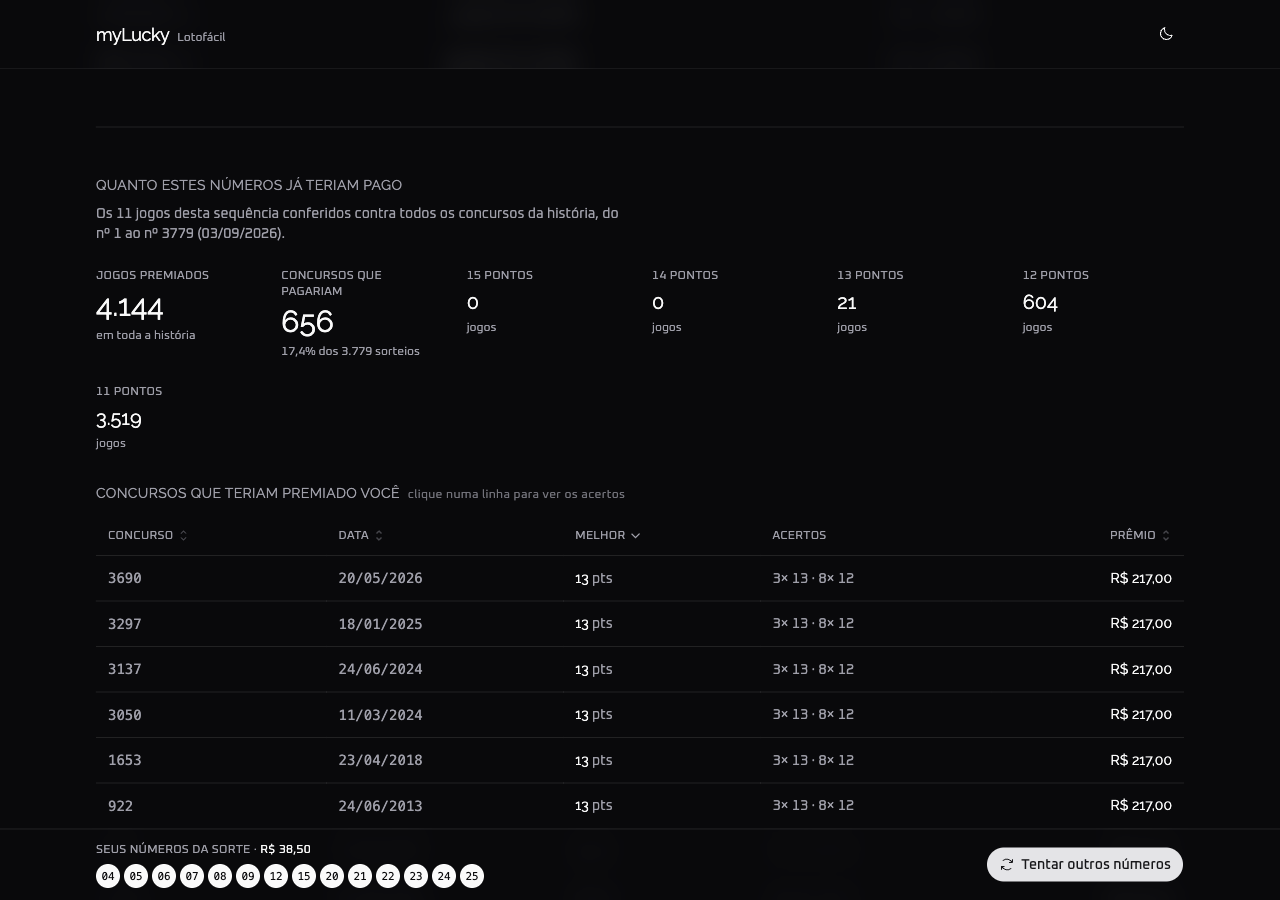
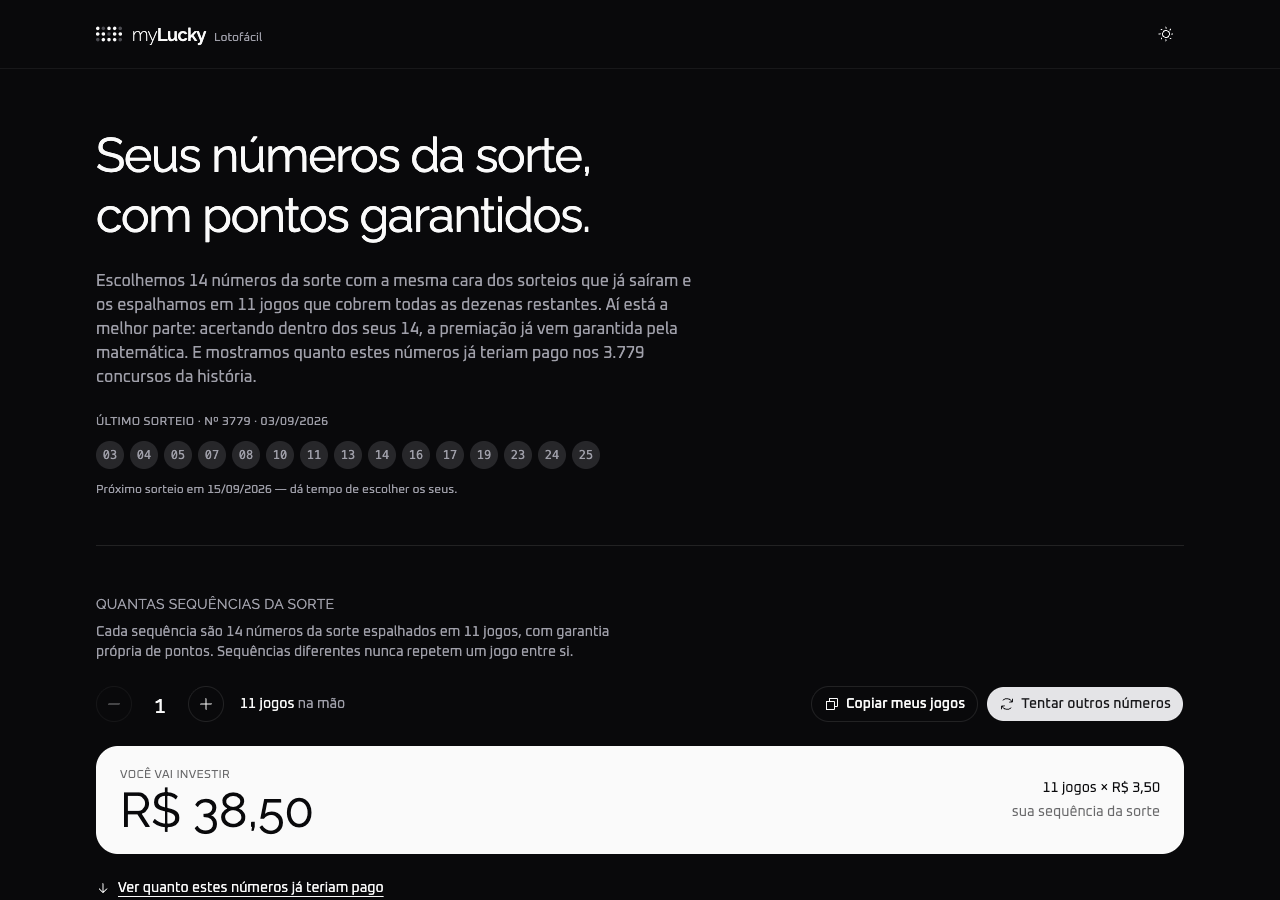
feat: identidade visual — lockup de cartela e wordmark de peso duplo
Aplica a direcao 2a do handoff de design: o header troca o texto simples
por simbolo + wordmark. O simbolo e a cartela em grade 5x3, com 10 pontos
cheios para as 14 dezenas fixas e 5 claros para as 11 de fora, herdando a
cor do tema via currentColor. O wordmark repete o contraste com my em
Raleway 200 e Lucky em Raleway 600.

Gera o favicon a partir do recorte 3x3 central: favicon.svg com circulos,
favicon-16.svg com quadrados de 2px para sobreviver ao hinting e
apple-touch-icon.png de 180px.

Atualiza o README com a secao de identidade e regenera os screenshots com
a marca nova. Corrige tambem a linha de fontes, que estava invertida: o
index.css define Raleway como --font-heading e Oxanium como --font-sans.

Sem dependencias novas e sem tokens de cor novos.

diff --git a/src/components/modules/Header/index.tsx b/src/components/modules/Header/index.tsx
@@ -1,4 +1,5 @@
 import { Button } from "@elements/Button";
+import { Logomark } from "@elements/Logomark";
 import { useTheme } from "@hooks/Theme";
 import { MoonIcon, SunIcon } from "@phosphor-icons/react";
 
@@ -12,9 +13,15 @@ export function Header() {
       className="sticky top-0 z-40 border-b border-border/60 bg-background/80 backdrop-blur-md"
     >
       <div className="mx-auto flex w-full max-w-6xl items-center justify-between gap-4 px-5 py-4 sm:px-8">
-        <a href="/" className="flex items-baseline gap-2">
-          <span className="font-heading text-lg tracking-tight">myLucky</span>
-          <span className="hidden text-xs text-muted-foreground sm:inline">Lotofácil</span>
+        <a href="/" className="flex items-center gap-2.5">
+          <Logomark className="shrink-0" />
+          <span className="flex items-baseline gap-2">
+            <span className="font-heading text-lg tracking-tight">
+              <span className="font-extralight">my</span>
+              <span className="font-semibold">Lucky</span>
+            </span>
+            <span className="hidden text-xs text-muted-foreground sm:inline">Lotofácil</span>
+          </span>
         </a>
         <Button
           id="theme-toggle"

diff --git a/src/components/elements/Logomark/index.tsx b/src/components/elements/Logomark/index.tsx
@@ -1,0 +1,44 @@
+import { cn } from "@utils/css";
+
+const DOTS = [
+  [0, 0],
+  [2, 0],
+  [3, 0],
+  [0, 1],
+  [1, 1],
+  [3, 1],
+  [4, 1],
+  [1, 2],
+  [2, 2],
+  [3, 2],
+] as const;
+
+const MUTED = [
+  [1, 0],
+  [4, 0],
+  [2, 1],
+  [0, 2],
+  [4, 2],
+] as const;
+
+const cx = (col: number) => 4 + col * 13;
+const cy = (row: number) => 4 + row * 13;
+
+export function Logomark({ className }: { className?: string }) {
+  return (
+    <svg viewBox="0 0 60 34" role="img" aria-label="myLucky" className={cn("h-[15px] w-[26px]", className)}>
+      {MUTED.map(([col, row]) => (
+        <circle
+          key={`m-${col}-${row}`}
+          cx={cx(col)}
+          cy={cy(row)}
+          r={4}
+          className="fill-muted-foreground/45"
+        />
+      ))}
+      {DOTS.map(([col, row]) => (
+        <circle key={`d-${col}-${row}`} cx={cx(col)} cy={cy(row)} r={4} fill="currentColor" />
+      ))}
+    </svg>
+  );
+}

diff --git a/index.html b/index.html
@@ -8,7 +8,9 @@
       name="description"
       content="Monte 14 números da sorte com a cara dos sorteios reais, espalhados em 11 jogos com pontos garantidos por matemática — e veja quanto já teriam pago em todos os concursos da Lotofácil."
     />
-    <link rel="icon" href="/favicon.svg" type="image/svg+xml" />
+    <link rel="icon" href="/favicon.svg" type="image/svg+xml" sizes="any" />
+    <link rel="icon" href="/favicon-16.svg" type="image/svg+xml" sizes="16x16" />
+    <link rel="apple-touch-icon" href="/apple-touch-icon.png" />
     <script>
       (() => {
         const stored = localStorage.getItem("theme");

diff --git a/README.md b/README.md
@@ -75,7 +75,7 @@ nenhum sistema a contorna.
 | Tabela | TanStack Table v8 |
 | Rotas | React Router v7 |
 | Animação | Lottie (chunk sob demanda) + canvas |
-| Fontes | Oxanium (títulos) + Raleway (texto) |
+| Fontes | Raleway (títulos, `--font-heading`) + Oxanium (texto, `--font-sans`) |
 | Lint/Format | Biome |
 | Testes | Vitest |
 | Deploy | Vercel + GitHub Actions |
@@ -93,6 +93,34 @@ nenhum sistema a contorna.
 - **Estado em `localStorage`** — a sequência sorteada e os jogos marcados sobrevivem ao reload
 - **Carregamento sob demanda** — o player Lottie entra por `import()` dinâmico, então vira um chunk
   separado baixado apenas no primeiro sorteio
+
+---
+
+## Identidade visual
+
+A marca é um lockup de símbolo + wordmark, sem nenhuma dependência ou token de cor novo — tudo sai do
+que `src/index.css` já define.
+
+**O símbolo** é a própria cartela: uma grade 5×3 de círculos em `viewBox="0 0 60 34"` (raio 4, passo
+13, primeiro centro em 4,4). Dez pontos cheios representam as 14 dezenas fixas e cinco pontos claros
+as 11 de fora — a mesma ideia de cobertura que o app executa. Os cheios usam `currentColor`, então
+herdam `text-foreground` e funcionam em light e dark sem regra extra; os claros usam
+`fill-muted-foreground/45`.
+
+**O wordmark** repete esse contraste na tipografia: `my` em Raleway 200 (`font-extralight`) e `Lucky`
+em Raleway 600 (`font-semibold`), a 18px com `tracking-tight`. O descritor "Lotofácil" some abaixo do
+breakpoint `sm`.
+
+**O favicon** é o recorte 3×3 central da cartela sobre placa `oklch(0.141 0.005 285.823)`:
+
+| Arquivo | Uso |
+| --- | --- |
+| `public/favicon.svg` | principal, círculos em viewBox 64 (raio de placa 12) |
+| `public/favicon-16.svg` | 16px, com os círculos virando quadrados de 2px para sobreviver ao hinting |
+| `public/apple-touch-icon.png` | 180px, para iOS |
+
+O componente vive em [`src/components/elements/Logomark/index.tsx`](src/components/elements/Logomark/index.tsx)
+e é stateless.
 
 ---
 
